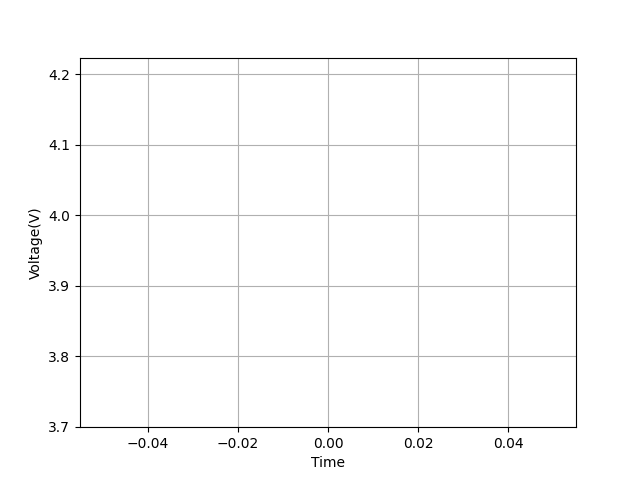
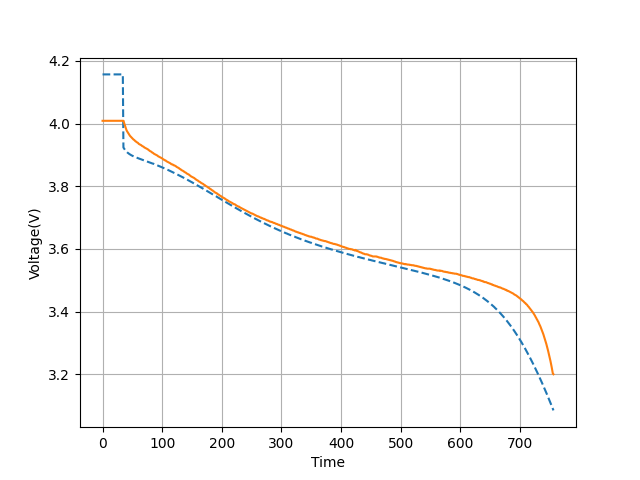
graphs and stats used in paper

diff --git a/torch/train_mlp_per_battery.py b/torch/train_mlp_per_battery.py
@@ -13,31 +13,31 @@ DEVICE =torch.device("cpu")
 EXPERIMENT = False #Compares and plots watm-start vs random initialization
 NUM_EPOCHS = 1001
 NUM_CHECK = 1 # Between 1 and 6 .How many batteries do you want to evaluate
-Validate = False
+BATTERY = 1
+Validate = True
 
 ###### FOR REFERENCE : DATA INGESTION STARTS HERE ##########
 def get_data_tensor(data_dict, max_idx_to_use, max_size):
     inputs = None
     target = None
 
-    for k, v in data_dict.items():
-        for i, d in enumerate(v[1, :max_idx_to_use]):
-            prep_inp = np.full(max_size, np.nan)
-            prep_target = np.full(max_size, np.nan)
-            prep_inp[:len(d)] = d   # Current Sequence
-            prep_target[:len(v[0, :][i])] = v[0, :][i]  # Voltage sequence
-            if inputs is None:
-                inputs = prep_inp
-                target = prep_target
-            else:
-                inputs = np.vstack([inputs, prep_inp])   
-                target = np.vstack([target, prep_target])
+    k = BATTERY  
+    v = data_dict[k]
+    for i, d in enumerate(v[1, :max_idx_to_use]):
+        prep_inp = np.full(max_size, np.nan)
+        prep_target = np.full(max_size, np.nan)
+        prep_inp[:len(d)] = d   # Current Sequence
+        prep_target[:len(v[0, :][i])] = v[0, :][i]  # Voltage sequence
+        if inputs is None:
+            inputs = prep_inp
+            target = prep_target
+        else:
+            inputs = np.vstack([inputs, prep_inp])   
+            target = np.vstack([target, prep_target])
 
-            break
     inputs_array = np.array(inputs)
     target_array = np.array(target)
 
-   
     #inputs_tensor = torch.tensor(inputs_array, dtype=torch.float32)
     #target_tensor = torch.tensor(target_array, dtype=torch.float32)
 
@@ -85,9 +85,30 @@ train_idx = [i for i in np.arange(0,36) if i not in val_idx]
         
 # Create the MLP model, optimizer, and criterion
 mlp = get_model(dt=dt, mlp_trainable=False, share_q_r=False, stateful=True).to(DEVICE)
+
+
+weights_path = 'torch_train/mlp_trained_weights.pth'
+mlp_p_weights = torch.load(weights_path)
+
+with torch.no_grad():
+    mlp.cell.MLPp[1].weight.copy_(mlp_p_weights["cell.MLPp.1.weight"])
+    mlp.cell.MLPp[1].bias.copy_(mlp_p_weights['cell.MLPp.1.bias'])
+    mlp.cell.MLPp[3].weight.copy_(mlp_p_weights['cell.MLPp.3.weight'])
+    mlp.cell.MLPp[3].bias.copy_(mlp_p_weights['cell.MLPp.3.bias'])
+    mlp.cell.MLPp[5].weight.copy_(mlp_p_weights['cell.MLPp.5.weight'])
+    mlp.cell.MLPp[5].bias.copy_(mlp_p_weights['cell.MLPp.5.bias'])
+
+# freeze MLPp
+for param in mlp.cell.MLPp.parameters():
+    param.requires_grad = False
+
 optimizer = optim.Adam(mlp.parameters(), lr=5e-3)
 criterion = nn.MSELoss().to(DEVICE)
+
+
 param_count = sum(p.numel() for p in mlp.parameters() if p.requires_grad)
+print("Total number of trainable parameters are ",param_count)
+
 # print("Total number of trainable parameters are ",param_count)
 # Prepare data
 #X = np.linspace(0.0, 1.0, 100).reshape(-1, 1).astype(np.float32)
@@ -111,7 +132,7 @@ data_loader = DataLoader(dataset, batch_size=30, shuffle=True) #TODO : Make it 3
 # Learning rate scheduler
 #scheduler = optim.lr_scheduler.LambdaLR(optimizer, lambda epoch: 1 if epoch < 800 else (0.5 if epoch < 1100 else (0.25 if epoch < 2200 else 0.125)))
 untrained_parameter_value = [mlp.cell.qMax.data.item(),mlp.cell.Ro.data.item()]
-# print("UnTrained Parameter Value:", untrained_parameter_value)
+print("UnTrained Parameter Value:", untrained_parameter_value)
 
 # Training loop
 start = time.time()
@@ -136,7 +157,6 @@ for epoch in range(num_epochs):
 
         # Backpropagation
         loss.backward()
-        # torch.nn.utils.clip_grad_norm_(mlp.parameters(), 1.0) #TODO: This sets gradient clipping
         optimizer.step()
         #scheduler.step()
         total_loss += loss.item()
@@ -154,15 +174,26 @@ for epoch in range(num_epochs):
             loss_val = criterion(Y_pred, Y_test_tensor)
             loss_val_warm_start.append(loss_val.item())
 
-        print(f"Epoch {epoch}, train Loss: {total_loss / len(data_loader)}, val Loss: {loss_val}, Time : {time.time()-start}")
+        print(f"Epoch {epoch}, train Loss: {total_loss / len(data_loader)}, val Loss: {loss_val}, Time : {time.time()-start}, Ro: {mlp.cell.Ro.data.item()}, qMax: {mlp.cell.qMax.data.item()}")
         start = time.time()
     
 
 # Save model weights
-torch.save(mlp.state_dict(), 'torch_train/mlp_trained_weights.pth')
+torch.save(mlp.state_dict(), 'torch_train/Ro_qMax_trained.pth')
 trained_parameter_value = [mlp.cell.qMax.data.item(),mlp.cell.Ro.data.item()]
-# print("Trained Parameter Value:", trained_parameter_value)
+print("Trained Parameter Value:", trained_parameter_value)
 
+
+plt.figure(figsize=(4, 2))
+plt.plot(loss_warm_start, label='train Loss')
+plt.plot(loss_val_warm_start, label='val loss')
+plt.legend()
+plt.ylabel('MSE(Loss)')
+plt.xlabel('Epoch(unit of 100)')
+plt.title('Training loss')
+plt.grid()
+plt.savefig('figures/training_loss.png')
+plt.show()
 
 
 
@@ -289,6 +320,7 @@ if Validate:
 
     #plt.plot(X, Y, color='gray')
     # print("Predictions have shape ",pred.shape)
+    plt.figure(figsize=(4, 2))
     for i in range(NUM_CHECK):
         plt.plot(pred[i,:,0],linestyle='dashed')
         plt.plot(Y_tensor[i,:,0])
@@ -307,12 +339,8 @@ if debug:
 
     mlp.eval()
     # Time for the test set
-    X = inputs_shiffed[train_idx,:,:]
-    # For confidential reasons
-    shape_X = np.shape(X)
-    #print(shape_X)
-
-    Y = target_shiffed[train_idx,:,np.newaxis]  
+    X = inputs_shiffed[val_idx,:,:]
+    Y = target_shiffed[val_idx,:,np.newaxis]  
     X_tensor = torch.from_numpy(X).to(DEVICE)
     Y_tensor = torch.from_numpy(Y).to(DEVICE)
     with torch.no_grad():
@@ -327,7 +355,7 @@ if debug:
     plt.grid()
 
     plt.xlabel('Time')
-    plt.savefig('figures/whatgoesonduringtraining.png')
+    plt.savefig('figures/validation_Ro_qMax.png')
     plt.show()
 
 

diff --git a/torch/val_mlp_per_battery.py b/torch/val_mlp_per_battery.py
@@ -1,0 +1,144 @@
+import numpy as np
+import torch
+import torch.nn as nn
+import torch.optim as optim
+import matplotlib.pyplot as plt
+from torch.utils.data import DataLoader, TensorDataset
+from battery_data import getDischargeMultipleBatteries
+import time
+#from BatteryRNNCell_mlp import BatteryRNN
+from model import get_model
+#DEVICE = torch.device("cuda" if torch.cuda.is_available() else "cpu")
+DEVICE =torch.device("cpu")
+EXPERIMENT = False #Compares and plots watm-start vs random initialization
+NUM_EPOCHS = 1001
+NUM_CHECK = 1 # Between 1 and 6 .How many batteries do you want to evaluate
+BATTERY = 1
+Validate = True
+
+###### FOR REFERENCE : DATA INGESTION STARTS HERE ##########
+def get_data_tensor(data_dict, max_idx_to_use, max_size):
+    inputs = None
+    target = None
+
+    k = BATTERY  
+    v = data_dict[k]
+    for i, d in enumerate(v[1, :max_idx_to_use]):
+        prep_inp = np.full(max_size, np.nan)
+        prep_target = np.full(max_size, np.nan)
+        prep_inp[:len(d)] = d   # Current Sequence
+        prep_target[:len(v[0, :][i])] = v[0, :][i]  # Voltage sequence
+        if inputs is None:
+            inputs = prep_inp
+            target = prep_target
+        else:
+            inputs = np.vstack([inputs, prep_inp])   
+            target = np.vstack([target, prep_target])
+
+    inputs_array = np.array(inputs)
+    target_array = np.array(target)
+
+    #inputs_tensor = torch.tensor(inputs_array, dtype=torch.float32)
+    #target_tensor = torch.tensor(target_array, dtype=torch.float32)
+
+    return inputs_array, target_array
+
+# Load battery data
+data_RW = getDischargeMultipleBatteries()
+max_idx_to_use = 36 # We are training the battery with constamt current data #This is to force nly one battery data
+max_size = np.max([v[0, 0].shape[0] for k, v in data_RW.items()])
+dt = np.diff(data_RW[1][2, 0])[1]
+# Get data tensors
+inputs_array, target_array = get_data_tensor(data_RW, max_idx_to_use, max_size)
+
+inputs_array = inputs_array[:,:,np.newaxis]
+time_window_size = inputs_array.shape[1]
+BATCH_SIZE = inputs_array.shape[0]
+
+# move timesteps with earlier EOD  --- This move aligns the sequence lengths of the discharge sequences
+# Batteries which discharge earlier are shifted such that all discharges happen simultaneously.
+# Assume these batteries are drawing 0 current till that time .
+EOD = 3.2
+V_0 = 4.19135029  # V adding when I=0 for the shift
+inputs_shiffed = inputs_array.copy()
+target_shiffed = target_array.copy()
+reach_EOD = np.ones(BATCH_SIZE, dtype=int) * time_window_size
+for row in np.argwhere((target_array<EOD) | (np.isnan(target_array))):
+    if reach_EOD[row[0]]>row[1]:
+        reach_EOD[row[0]]=row[1]
+        inputs_shiffed[row[0],:,0] = np.zeros(time_window_size) # Put zeros to keep data sane
+        inputs_shiffed[row[0],:,0][time_window_size-row[1]:] = inputs_array[row[0],:,0][:row[1]]
+        target_shiffed[row[0]] = np.ones(time_window_size) * target_array[row[0]][0]
+        #print("shifted targets are ",target_shiffed[row[0]])
+        target_shiffed[row[0]][time_window_size-row[1]:] = target_array[row[0]][:row[1]]
+#dataset = TensorDataset(inputs_tensor.unsqueeze(-1), target_tensor.unsqueeze(-1))
+#train_loader = DataLoader(dataset, batch_size=BATCH_SIZE, shuffle=True)
+val_idx = np.linspace(0,35,6,dtype=int)
+#val_idx = np.array([0])
+train_idx = [i for i in np.arange(0,36) if i not in val_idx]
+#train_idx = [0]
+#train_idx = np.array([1])
+###### FOR REFERENCE : DATA INGESTION ENDS HERE ##########
+        
+
+
+
+
+
+###### FOR REFERENCE : MODEL loading starts here ##########
+# Create the MLP model, optimizer, and criterion
+mlp = get_model(dt=dt, mlp_trainable=False, share_q_r=False, stateful=True).to(DEVICE)
+
+weights_path = 'torch_train/mlp_trained_weights.pth'
+mlp_p_weights = torch.load(weights_path)
+
+with torch.no_grad():
+    mlp.cell.MLPp[1].weight.copy_(mlp_p_weights["cell.MLPp.1.weight"])
+    mlp.cell.MLPp[1].bias.copy_(mlp_p_weights['cell.MLPp.1.bias'])
+    mlp.cell.MLPp[3].weight.copy_(mlp_p_weights['cell.MLPp.3.weight'])
+    mlp.cell.MLPp[3].bias.copy_(mlp_p_weights['cell.MLPp.3.bias'])
+    mlp.cell.MLPp[5].weight.copy_(mlp_p_weights['cell.MLPp.5.weight'])
+    mlp.cell.MLPp[5].bias.copy_(mlp_p_weights['cell.MLPp.5.bias'])
+
+# freeze MLPp
+for param in mlp.cell.MLPp.parameters():
+    param.requires_grad = False
+
+
+###### FOR REFERENCE : MODEL loading ends here ##########
+
+
+
+
+
+
+    
+######## Validation is done here ##########
+if Validate:
+    mlp.eval()
+    # Time for the test set
+    X = inputs_shiffed[val_idx,:,:]
+    # For confidential reasons
+    shape_X = np.shape(X)
+    # print(shape_X)
+
+    Y = target_shiffed[val_idx,:,np.newaxis]  
+    X_tensor = torch.from_numpy(X).to(DEVICE)
+    Y_tensor = torch.from_numpy(Y).to(DEVICE)
+    with torch.no_grad():
+        pred = mlp(X_tensor).cpu().numpy()
+
+    #plt.plot(X, Y, color='gray')
+    # print("Predictions have shape ",pred.shape)
+    plt.figure(figsize=(4, 2))
+    for i in range(NUM_CHECK):
+        plt.plot(pred[i,:,0],linestyle='dashed')
+        plt.plot(Y_tensor[i,:,0])
+    plt.ylabel('Voltage(V)')
+    plt.grid()
+
+    plt.xlabel('Time')
+    plt.savefig('figures/predictionvsreality.png')
+    plt.show()
+
+######## Validation is done here ##########

diff --git a/torch/stats.py b/torch/stats.py
@@ -1,0 +1,39 @@
+import pandas as pd
+import matplotlib.pyplot as plt
+
+df = pd.read_csv('train_mlp_battery_1.csv')
+df.head()
+
+plt.figure(figsize=(4,2))
+plt.plot(df['Epoch'], df['train_Loss'], label='train_loss')
+plt.plot(df['Epoch'], df['val_Loss'], label='val_loss')
+plt.xlabel('Epoch')
+plt.ylabel('MSE Loss')
+plt.legend()
+plt.tight_layout()
+# plt.show()
+plt.savefig('figures/loss_battery_1.png')
+
+
+
+
+COLOR_Ro = "#69b3a2"
+COLOR_qMax = "#3399e6"
+
+fig, ax1 = plt.subplots(figsize=(4,2))
+# Instantiate a second axes that shares the same x-axis
+ax2 = ax1.twinx()  
+ax1.plot(df['Epoch'], df['Ro'] * 1.0e1, color=COLOR_Ro)
+ax1.set_xlabel('Epoch')
+ax1.set_ylabel('Ro (Ohm)', color=COLOR_Ro)
+
+
+ax2.plot(df['Epoch'], df['qMax'] * 1.0e4, color=COLOR_qMax)
+ax2.set_xlabel('Epoch')
+ax2.set_ylabel('qMax (Coloumbs)', color=COLOR_qMax)
+ax2.yaxis.label.set_color(COLOR_qMax)
+ax2.tick_params(axis='y', colors=COLOR_qMax)
+plt.tight_layout()
+
+# plt.show()
+plt.savefig('figures/Ro_qMax_1.png')
